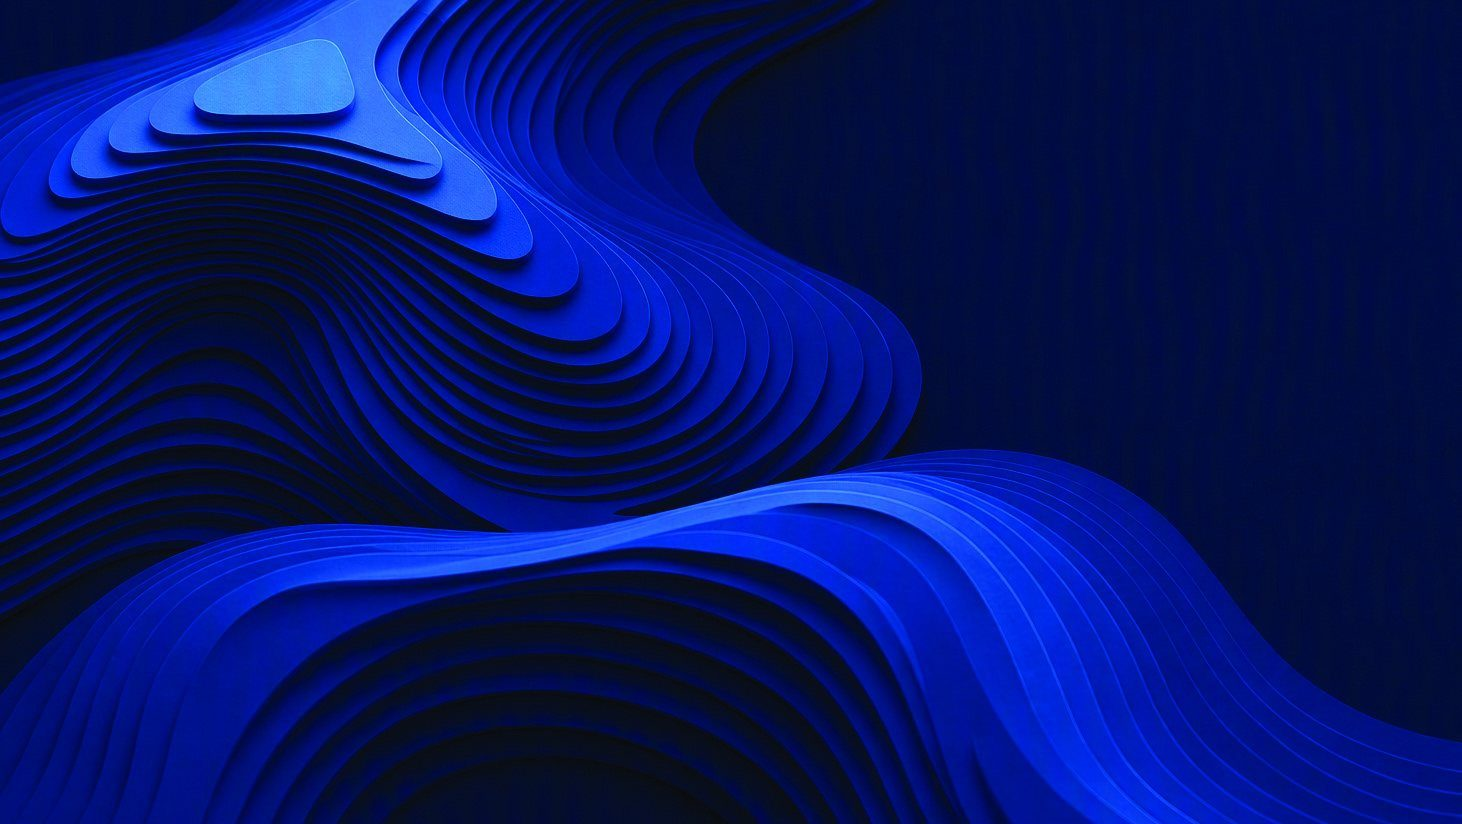
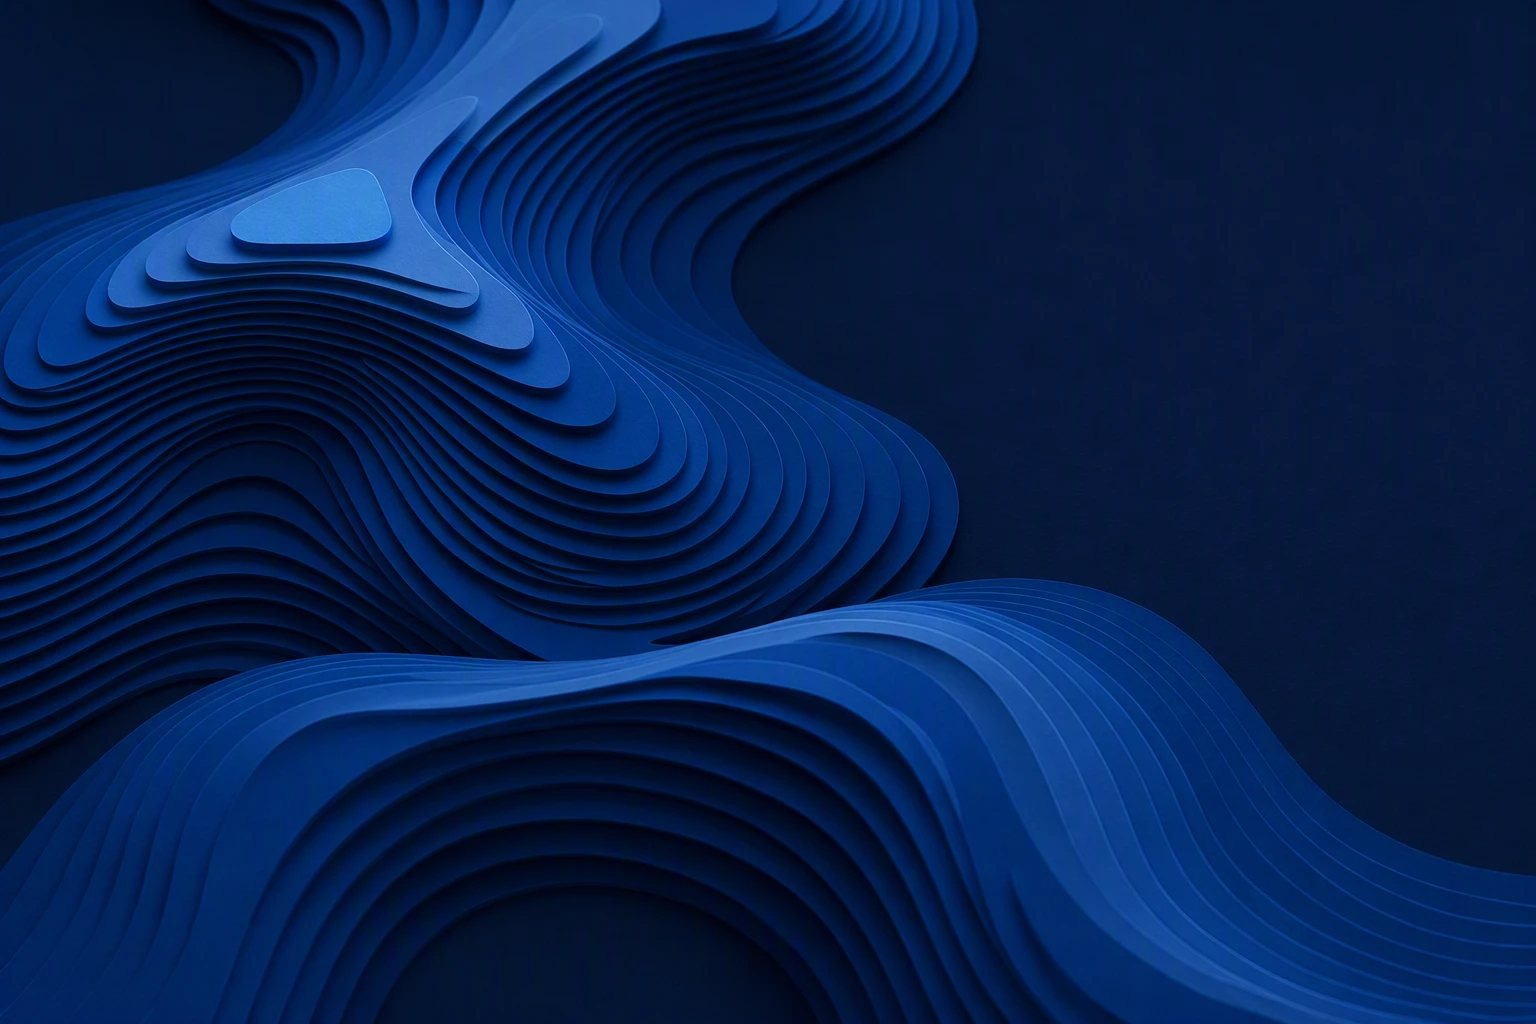
Use supplied water and topo backgrounds in the Broadview deck
Swap the PDF-extracted textures for the clean water, white topo and navy
topo assets, and soften the overlays so text stays readable.

Claude-Session: https://claude.ai/code/session_013rjN9eXsQUGtogBW2y87jx

diff --git a/presentations/2600-s-25th-broadview/deck.css b/presentations/2600-s-25th-broadview/deck.css
@@ -93,16 +93,17 @@ em { font-style: italic; }
 .slide__top--end { justify-content: flex-end; }
 .slide__top--center { justify-content: center; padding-top: calc(4 * var(--vh)); }
 
-.slide--light { background: var(--paper) url("img/topo-light.jpg") right top / auto 100% no-repeat; }
+.slide--light { background: linear-gradient(rgba(255,255,255,.5), rgba(255,255,255,.5)), var(--paper) url("img/topo-light.jpg") center / cover no-repeat; }
 .slide--white { background: var(--paper); }
 .slide--navy { background: var(--navy) url("img/navy-topo.jpg") center / cover; color: #fff; }
-.slide--navy::before { content: ""; position: absolute; inset: 0; background: linear-gradient(120deg, rgba(15,31,71,.55), rgba(20,42,92,.75)); }
+.slide--navy::before { content: ""; position: absolute; inset: 0; background: linear-gradient(90deg, rgba(10,22,58,.7) 0%, rgba(10,22,58,.5) 55%, rgba(10,22,58,.25) 100%); }
 .slide--photo { background: var(--navy) var(--bg) center / cover; color: #fff; }
 .slide--photo::before { content: ""; position: absolute; inset: 0; background: linear-gradient(180deg, rgba(20,36,80,.82), rgba(20,36,80,.62)); }
 
 .water-band {
   position: relative; z-index: 1; height: clamp(28px, calc(5 * var(--vh)), 56px); flex: none;
   background: var(--navy-deep) url("img/water-band.jpg") center / cover;
+  box-shadow: inset 0 1px 0 rgba(255,255,255,.08);
 }
 .water-band--top { height: clamp(18px, calc(3 * var(--vh)), 34px); }
 
@@ -172,14 +173,14 @@ em { font-style: italic; }
 .menu__list a:hover, .menu__list a[aria-current="true"] { color: #b8c4ea; }
 
 /* ---------- Cover ---------- */
-.slide--cover { background: var(--paper) url("img/topo-light.jpg") right bottom / 60% auto no-repeat; }
+.slide--cover { background: linear-gradient(rgba(255,255,255,.35), rgba(255,255,255,.35)), var(--paper) url("img/topo-light-bold.jpg") center bottom / 100% auto no-repeat; }
 .cover__photo { height: calc(60 * var(--vh)); min-height: 260px; }
 .cover__photo img { width: 100%; height: 100%; object-fit: cover; object-position: center 40%; }
 .cover__band { position: relative; height: clamp(18px, calc(2.8 * var(--vh)), 30px); background: var(--stream-blue); }
 .cover__badge {
   position: absolute; left: var(--gutter); bottom: -10px;
   padding: clamp(14px, calc(2.2 * var(--vh)), 26px) clamp(24px, calc(3 * var(--vw)), 52px);
-  background: var(--stream-blue) url("img/water-band.jpg") center / cover;
+  background: var(--stream-blue) url("img/water.jpg") center 45% / cover;
   box-shadow: inset 0 0 0 9px var(--stream-blue);
 }
 .cover__badge img { width: clamp(180px, calc(19 * var(--vw)), 360px); }
@@ -193,9 +194,9 @@ em { font-style: italic; }
 .cover__stream { width: clamp(140px, calc(11 * var(--vw)), 210px); }
 
 /* ---------- Contents ---------- */
-.slide--contents { flex-direction: row; background: var(--paper) url("img/topo-light.jpg") right center / cover no-repeat; }
+.slide--contents { flex-direction: row; background: linear-gradient(rgba(255,255,255,.5), rgba(255,255,255,.5)), var(--paper) url("img/topo-light.jpg") right center / cover no-repeat; }
 .contents__photo { position: relative; flex: 0 0 40%; }
-.contents__photo::after { content: ""; position: absolute; top: 0; right: 0; bottom: 0; width: 34px; background: var(--navy-deep) url("img/water-band.jpg") center / auto 100%; transform-origin: center; }
+.contents__photo::after { content: ""; position: absolute; top: 0; right: 0; bottom: 0; width: 34px; background: var(--navy-deep) url("img/water.jpg") 40% center / cover; }
 .contents__photo img { width: 100%; height: 100%; object-fit: cover; }
 .contents__body { flex: 1; padding: clamp(64px, calc(10 * var(--vh)), 140px) var(--gutter) 60px clamp(32px, calc(5 * var(--vw)), 96px); }
 .toc { margin-top: clamp(24px, calc(4 * var(--vh)), 48px); max-width: 920px; border-bottom: 1px solid var(--rule); }
@@ -267,11 +268,12 @@ em { font-style: italic; }
 .stat__note { margin-top: 1.6em; font-size: clamp(.75rem, calc(.9 * var(--vw)), .95rem); text-transform: uppercase; letter-spacing: .02em; line-height: 1.5; }
 
 /* ---------- Toolkit ---------- */
-.slide--tools { background-size: auto 60%; }
+.slide--tools { background-position: center top; background-size: 100% auto, 100% auto; }
 .toolkit { position: relative; flex: 1; display: flex; flex-direction: column; color: #fff;
   background:
     radial-gradient(120% 70% at 50% 120%, var(--mist) 49.6%, transparent 50%),
-    linear-gradient(90deg, #102a6e 0%, #1d47a8 50%, #102a6e 100%);
+    linear-gradient(90deg, rgba(12,30,82,.9) 0%, rgba(28,68,165,.72) 50%, rgba(12,30,82,.9) 100%),
+    var(--navy) url("img/water.jpg") center / cover;
 }
 .toolkit__grid {
   display: grid; grid-template-columns: 1.15fr 1.6fr 1.2fr; gap: clamp(20px, calc(3 * var(--vw)), 56px);
@@ -338,14 +340,14 @@ em { font-style: italic; }
 .slide--placeholder { justify-content: center; background: #fff; }
 .placeholder-stage { display: grid; place-items: center; height: 100%; padding: calc(12 * var(--vh)) var(--gutter);
   background:
-    url("img/water-light.jpg") left center / 18% 80% no-repeat,
-    url("img/water-light.jpg") right center / 18% 80% no-repeat; }
+    url("img/water-light-left.jpg") left center / 17% 82% no-repeat,
+    url("img/water-light-right.jpg") right center / 17% 82% no-repeat; }
 .todo--block { width: min(100%, 1300px, calc(140 * var(--vh))); aspect-ratio: 2.1; }
 
 /* ---------- Thank You ---------- */
 .slide--thanks { flex-direction: row; background: var(--navy); }
 .thanks__panel { position: relative; flex: 0 0 53%; display: flex; flex-direction: column; justify-content: space-between; padding: clamp(80px, calc(22 * var(--vh)), 260px) clamp(32px, calc(6.5 * var(--vw)), 130px) clamp(40px, calc(10 * var(--vh)), 110px); color: #fff; background: var(--navy) url("img/navy-topo.jpg") center / cover; }
-.thanks__panel::before { content: ""; position: absolute; inset: 0; background: rgba(20,42,92,.55); }
+.thanks__panel::before { content: ""; position: absolute; inset: 0; background: linear-gradient(180deg, rgba(10,22,58,.15), rgba(10,22,58,.45)); }
 .thanks__panel > * { position: relative; }
 .thanks__title { font-size: clamp(4rem, calc(10 * var(--vw)), 11rem); font-weight: 300; line-height: .95; }
 .thanks__title em { font-style: normal; color: #c3c8ee; }
@@ -387,7 +389,7 @@ em { font-style: italic; }
   .flow__arrow { transform: rotate(90deg); animation: none; }
   .flow__step--hub { flex-direction: column; }
   .screens { grid-template-columns: 1fr; max-width: 420px; margin-left: auto; margin-right: auto; padding-top: 24px; }
-  .toolkit { background: linear-gradient(180deg, #102a6e, #1d47a8); }
+  .toolkit { background: linear-gradient(180deg, rgba(12,30,82,.9), rgba(28,68,165,.75)), var(--navy) url("img/water.jpg") center / cover; }
   .screens li { color: #fff; }
   .person__photo { height: calc(56 * var(--vw)); }
   .cover__photo { height: calc(42 * var(--vh)); }
